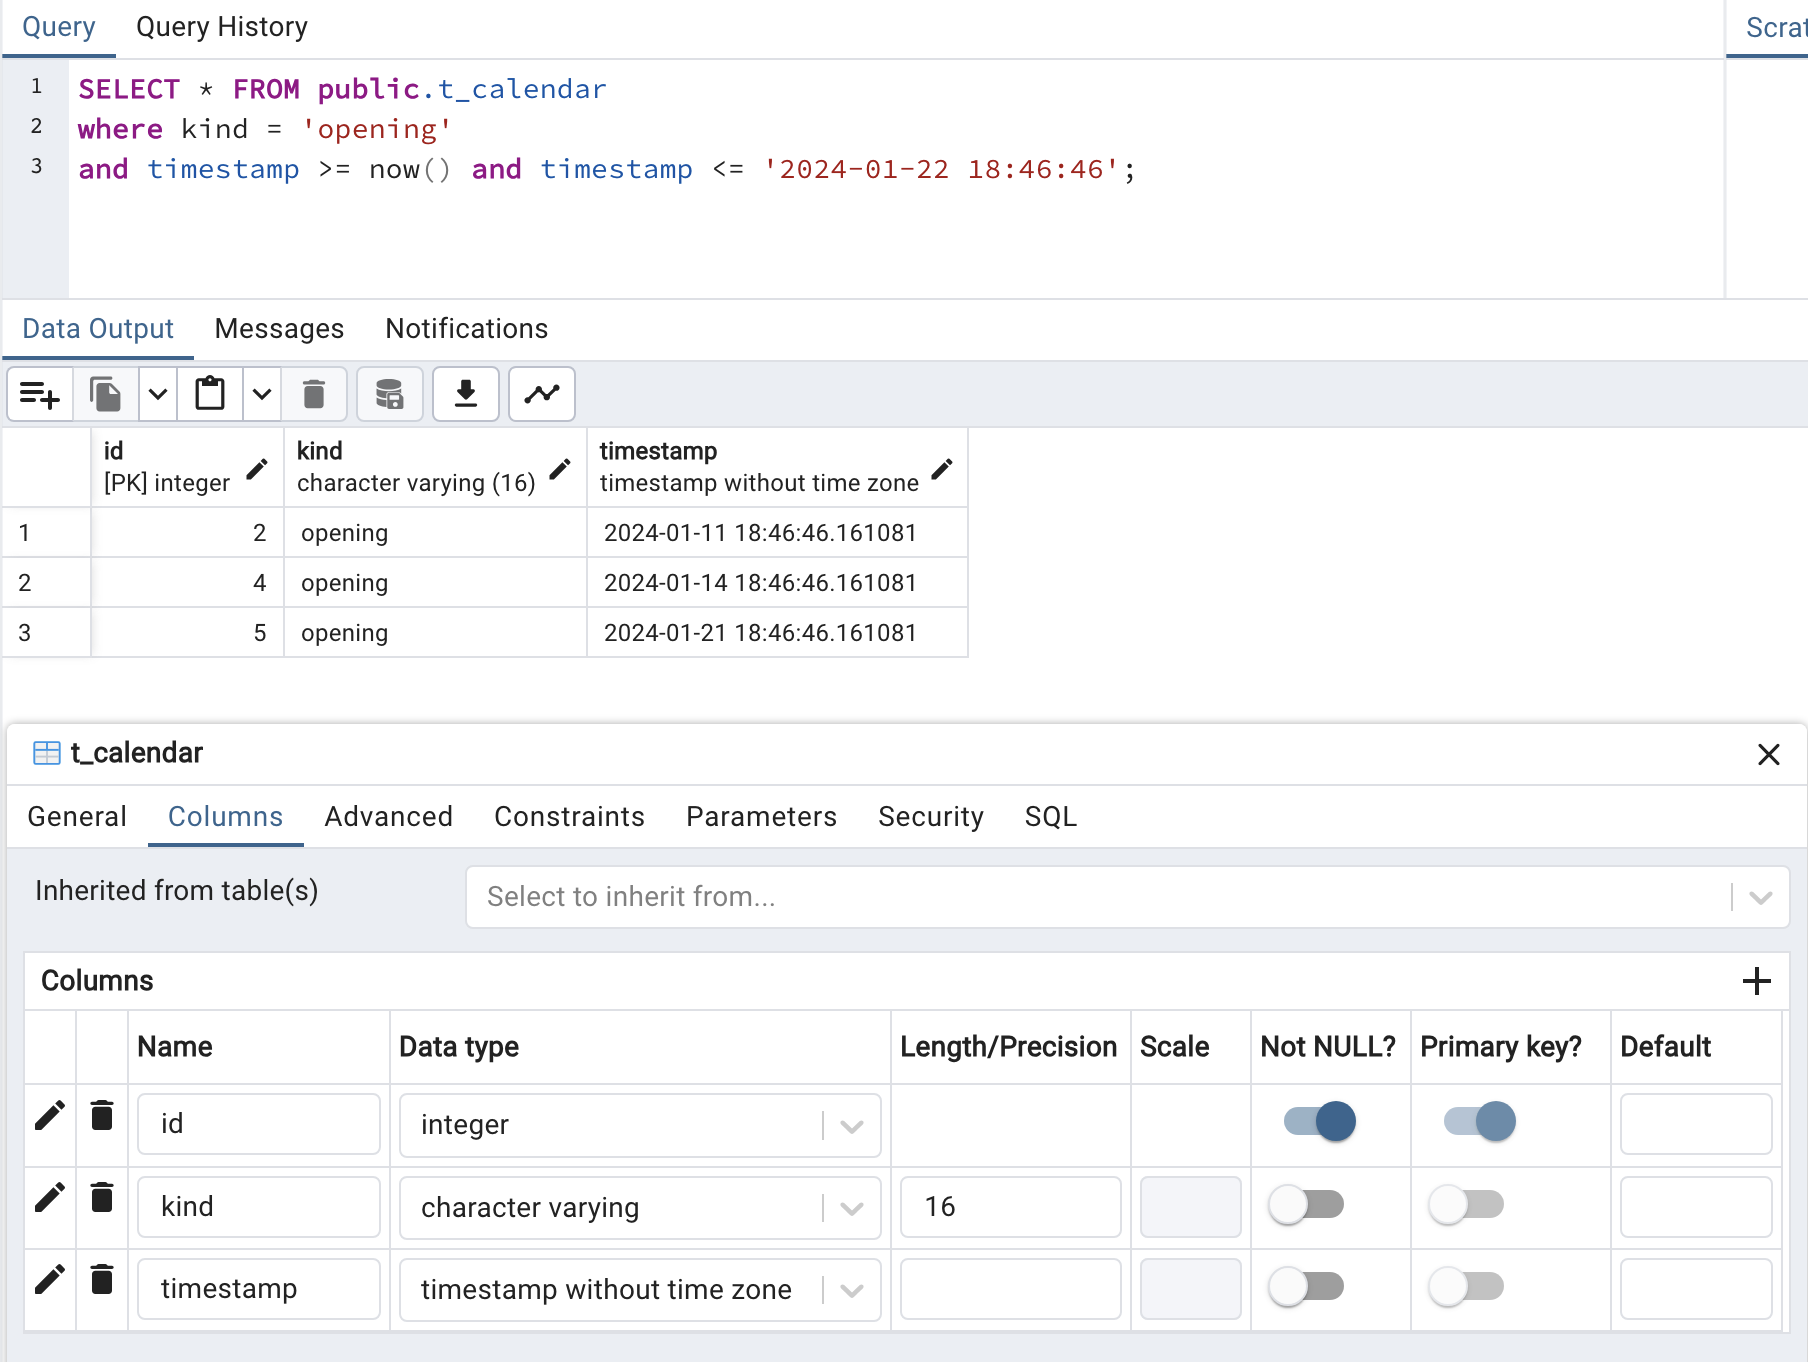
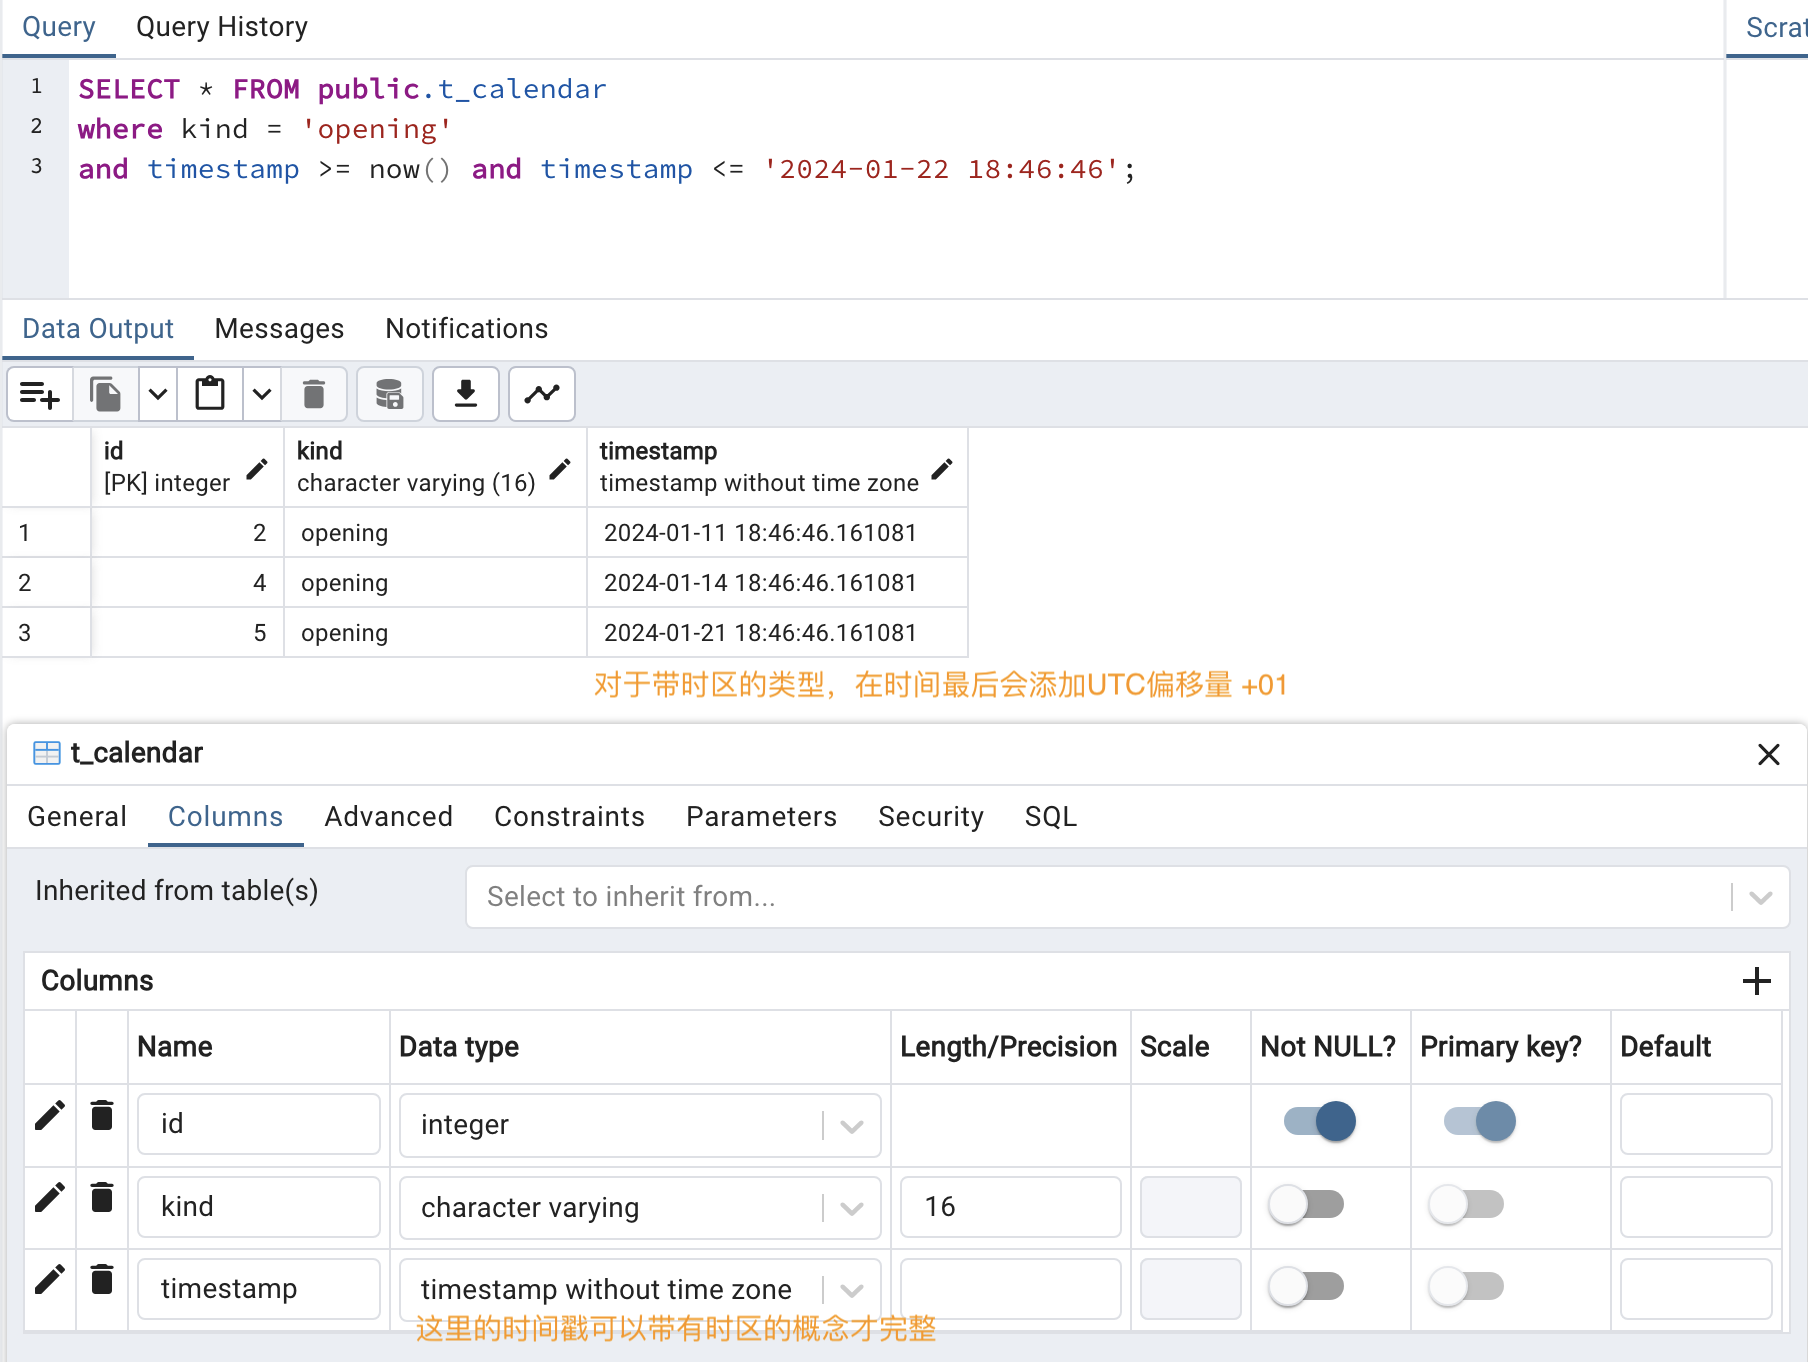
refresh project

Changed region(s): [[0.3097, 0.4934, 0.7124, 0.5242], [0.2168, 0.9559, 0.5265, 0.9868]]

diff --git a/relational-database/postgre-sql/src/main/java/com/psql/main/datetime/DemoDateTime.java b/relational-database/postgre-sql/src/main/java/com/psql/main/datetime/DemoDateTime.java
@@ -22,7 +22,7 @@ public class DemoDateTime {
     // Output: List of java.sql.Timestamp
     public static List<Timestamp> getAvailableSlots(LocalDate localDate) throws Exception {
         List<Timestamp> slotsList = new ArrayList<>();
-        String url = "jdbc:postgresql://localhost:5432/my_database?reWriteBatchedInserts=true";
+        String url = "jdbc:postgresql://localhost:5432/my_database";
         String query = "select * from t_calendar where kind = 'opening' and timestamp >= ? and timestamp <= ?";
         try (Connection connection = DriverManager.getConnection(url, "postgres", "");
              PreparedStatement statement = connection.prepareStatement(query)) {
@@ -31,7 +31,8 @@ public class DemoDateTime {
             statement.setDate(2, Date.valueOf(localDate.plusDays(8)));
             ResultSet results = statement.executeQuery();
             while (results.next()) {
-                // results.getDate("timestamp"); 获取纯粹的Date日期时间, 对应Date JDBC Type类型
+                // 获取纯粹的Date日期时间, 对应Date JDBC Type类型
+                // results.getDate("timestamp");
 
                 // 获取数据表中Timestamp时间戳JDBC Type类型
                 slotsList.add(results.getTimestamp("timestamp"));
